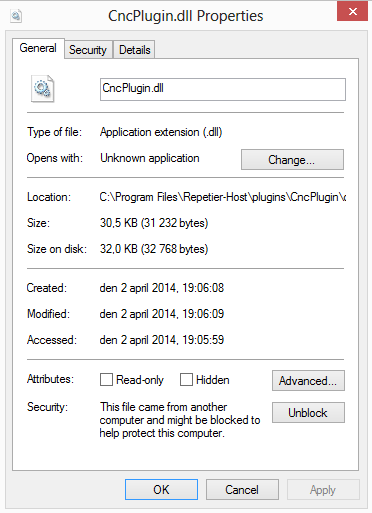
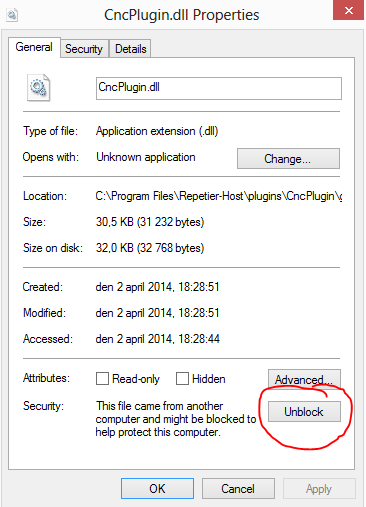
Updated readme and uploaded screenshot on unblock routine

Changed region(s): [[0.0, 0.0, 1.0, 1.0]]

diff --git a/readme.md b/readme.md
@@ -9,10 +9,10 @@ When working with CNC machines there are slightly different demands on user inte
 
 ## Install (Windows only so far)
 * Create the directory C:\Program Files\Repetier-Host\plugins\CncPlugin
-* if required change privileges for write access
-* Download dll (https://github.com/ahd71/repetier-cncplugin/raw/master/CncPlugin/Binaries/CncPlugin.dll)
-* Copy dll file (CncPlugin.dll) into the directory. Apperently Repetier host is case sensitive.
-* Unblock windows security for the file if required (right click on file and click UNBLOCK
+* Change privileges to write access for the folder if required.
+* Download plugin dll (https://github.com/ahd71/repetier-cncplugin/raw/master/CncPlugin/Binaries/CncPlugin.dll)
+* Copy dll file (CncPlugin.dll) into the new directory (note that Repetier host is case sensitive)
+* Unblock windows security for the file if required (right click on file and click UNBLOCK https://github.com/ahd71/repetier-cncplugin/blob/master/CncPlugin/Screenshots/security_unblock.PNG)
 * Restart Repetier Host.
 * Done :-)
 
